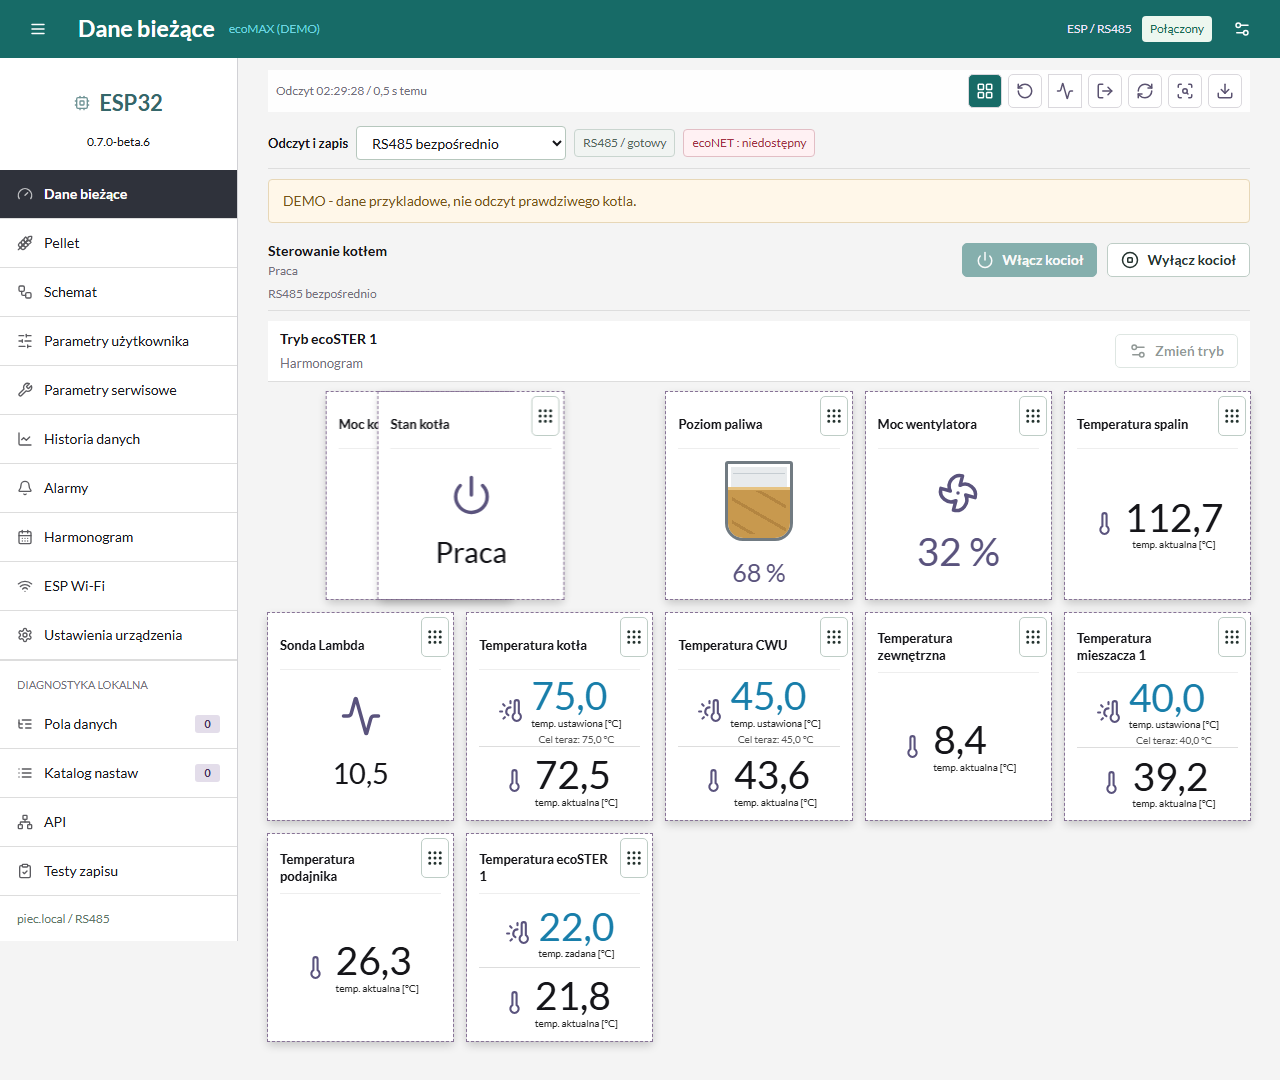
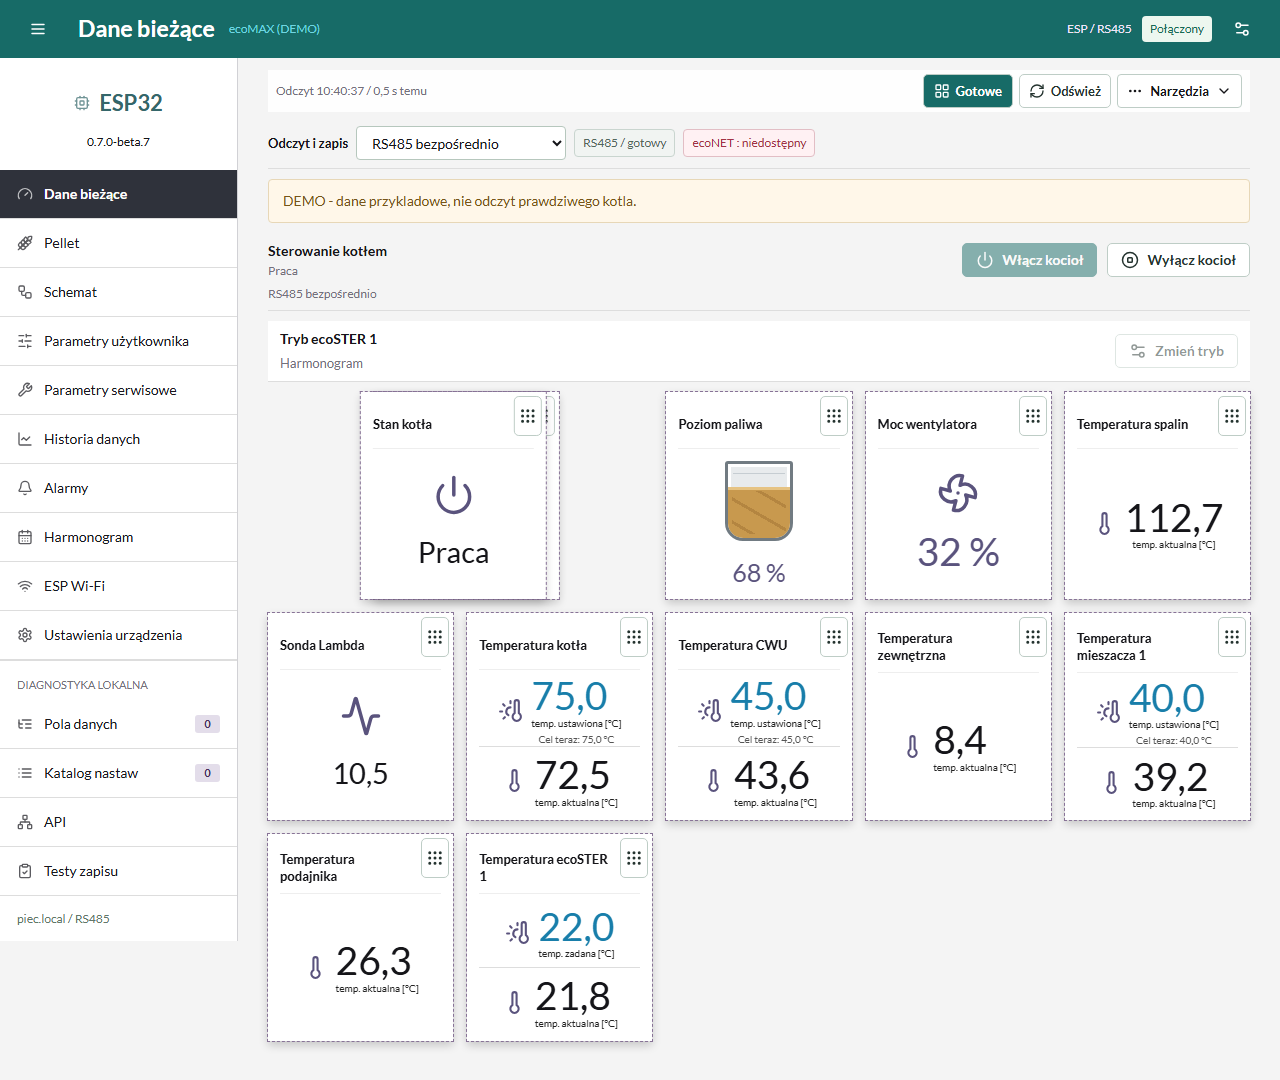
Release 0.7.0-beta.7: labelled tools menu with logout last

diff --git a/src/panel_web/index.html b/src/panel_web/index.html
@@ -1,13 +1,13 @@
 <!doctype html>
-<html lang="pl"><head><meta charset="utf-8"><meta name="viewport" content="width=device-width,initial-scale=1"><title>ecoMAX Wi-Fi | Panel ESP</title><link rel="stylesheet" href="/style.css"><link rel="stylesheet" href="/mirror.css"><link rel="stylesheet" href="/week.css"><link rel="stylesheet" href="/pellet.css"><link rel="stylesheet" href="/history.css"><link rel="stylesheet" href="/network.css"><link rel="stylesheet" href="/updates.css"><script src="/updates.js" defer></script><script src="/network.js" defer></script><script src="/lucide.js" defer></script><script src="/settings.js" defer></script><script src="/pellet.js" defer></script><script src="/history.js" defer></script><script src="/sortable.min.js" defer></script><script src="/tile_layout.js" defer></script><script src="/mirror.js" defer></script><script src="/app.js" defer></script></head>
+<html lang="pl"><head><meta charset="utf-8"><meta name="viewport" content="width=device-width,initial-scale=1"><title>ecoMAX Wi-Fi | Panel ESP</title><link rel="stylesheet" href="/style.css"><link rel="stylesheet" href="/mirror.css"><link rel="stylesheet" href="/week.css"><link rel="stylesheet" href="/pellet.css"><link rel="stylesheet" href="/history.css"><link rel="stylesheet" href="/network.css"><link rel="stylesheet" href="/updates.css"><script src="/updates.js" defer></script><script src="/network.js" defer></script><script src="/lucide.js" defer></script><script src="/settings.js" defer></script><script src="/pellet.js" defer></script><script src="/history.js" defer></script><script src="/sortable.min.js" defer></script><script src="/tile_layout.js" defer></script><script src="/toolbar.js" defer></script><script src="/mirror.js" defer></script><script src="/app.js" defer></script></head>
 <body>
 <link rel="stylesheet" href="/transport.css"><link rel="stylesheet" href="/compact.css">
 <header><button id="nav-toggle" class="icon" title="Menu" aria-label="Menu" aria-expanded="true" aria-controls="main-nav"><i data-lucide="menu"></i></button><div class="brand"><h1 id="screen-name">Dane bie&#380;&#261;ce</h1><span id="model">Sterownik</span></div><div class="connection"><span id="local-mark" class="local-mark">ESP / RS485</span><span id="connection" class="status neutral">Niepo&#322;&#261;czony</span><button id="connect-open" class="icon" title="Po&#322;&#261;czenie" aria-label="Po&#322;&#261;czenie"><i data-lucide="settings-2"></i></button></div></header>
-<div class="layout"><nav id="main-nav" aria-label="Widoki"><div class="nav-brand"><div id="nav-econet" class="esp-brand" aria-label="ecoNET"><i data-lucide="router"></i><strong>ecoNET</strong></div><div id="nav-esp" class="esp-brand" hidden aria-label="ESP32"><i data-lucide="cpu"></i><strong>ESP32</strong></div><span id="version">0.7.0-beta.6</span></div>
+<div class="layout"><nav id="main-nav" aria-label="Widoki"><div class="nav-brand"><div id="nav-econet" class="esp-brand" aria-label="ecoNET"><i data-lucide="router"></i><strong>ecoNET</strong></div><div id="nav-esp" class="esp-brand" hidden aria-label="ESP32"><i data-lucide="cpu"></i><strong>ESP32</strong></div><span id="version">0.7.0-beta.7</span></div>
 <button class="active" data-view="live"><i data-lucide="gauge"></i><span>Dane bie&#380;&#261;ce</span></button><button data-view="pellet"><i data-lucide="wheat"></i><span>Pellet</span></button><button data-view="schema"><i data-lucide="workflow"></i><span>Schemat</span></button><button data-view="user"><i data-lucide="sliders-horizontal"></i><span>Parametry u&#380;ytkownika</span></button><button data-view="service"><i data-lucide="wrench"></i><span>Parametry serwisowe</span></button><button data-view="history"><i data-lucide="chart-line"></i><span>Historia danych</span></button><button data-view="alarms"><i data-lucide="bell"></i><span>Alarmy</span></button><button data-view="schedule"><i data-lucide="calendar-days"></i><span>Harmonogram</span></button><button data-view="espwifi"><i data-lucide="wifi"></i><span>ESP Wi-Fi</span></button><button data-view="settings"><i data-lucide="settings"></i><span>Ustawienia urz&#261;dzenia</span></button><div class="nav-tools">Diagnostyka lokalna</div><button data-view="data"><i data-lucide="list-tree"></i><span>Pola danych</span><b id="count-fields">0</b></button><button data-view="menu"><i data-lucide="list"></i><span>Katalog nastaw</span><b id="count-menu">0</b></button><button data-view="api"><i data-lucide="network"></i><span>API</span></button><button data-view="tests"><i data-lucide="clipboard-check"></i><span>Testy zapisu</span></button><div class="rail-foot"><div id="address">piec.local</div></div></nav>
 <main>
 
-<div class="page-toolbar"><div><h2 id="view-title">Bie&#380;&#261;ce odczyty</h2><div id="read-time" class="muted">Brak odczytu</div></div><div class="actions"><div class="tile-layout-actions"><span id="tile-layout-status" class="tile-layout-status visually-hidden" role="status"></span><button id="tile-layout-edit" type="button" class="icon" title="Edytuj uk&#322;ad" aria-label="Edytuj uk&#322;ad" aria-pressed="false"><i data-lucide="layout-grid"></i></button><button id="tile-layout-reset" type="button" class="icon" title="Przywr&#243;&#263; domy&#347;lny uk&#322;ad" aria-label="Przywr&#243;&#263; domy&#347;lny uk&#322;ad" hidden><i data-lucide="rotate-ccw"></i></button></div><a href="/diagnostics" class="icon" title="Diagnostyka ESP i OTA" aria-label="Diagnostyka ESP i OTA"><i data-lucide="activity"></i></a><button id="esp-logout" class="icon" title="Wyloguj" aria-label="Wyloguj"><i data-lucide="log-out"></i></button><button class="icon" id="refresh" title="Od&#347;wie&#380; odczyty" aria-label="Od&#347;wie&#380; odczyty"><i data-lucide="refresh-cw"></i></button><button class="icon" id="scan" title="Sprawd&#378; API i katalog" aria-label="Sprawd&#378; API i katalog"><i data-lucide="scan-search"></i></button><button class="icon" id="export" title="Eksport raportu JSON" aria-label="Eksport raportu JSON"><i data-lucide="download"></i></button></div></div>
+<div class="page-toolbar"><div><h2 id="view-title">Bie&#380;&#261;ce odczyty</h2><div id="read-time" class="muted">Brak odczytu</div></div><div class="actions"><div class="tile-layout-actions"><span id="tile-layout-status" class="tile-layout-status visually-hidden" role="status"></span><button id="tile-layout-edit" type="button" class="toolbar-command" title="Edytuj uk&#322;ad kafelk&#243;w" aria-label="Edytuj uk&#322;ad kafelk&#243;w" aria-pressed="false"><i data-lucide="layout-grid"></i><span id="tile-layout-edit-label">Kafelki</span></button></div><button type="button" class="toolbar-command" id="refresh" title="Od&#347;wie&#380; odczyty" aria-label="Od&#347;wie&#380; odczyty"><i data-lucide="refresh-cw"></i><span>Od&#347;wie&#380;</span></button><details id="panel-tools" class="panel-tools"><summary><i data-lucide="ellipsis"></i><span>Narz&#281;dzia</span><i data-lucide="chevron-down"></i></summary><div class="tools-list" role="group" aria-label="Narz&#281;dzia panelu"><button type="button" id="scan"><i data-lucide="scan-search"></i><span>Sprawd&#378; API i katalog</span></button><button type="button" id="export"><i data-lucide="download"></i><span>Pobierz raport JSON</span></button><a href="/diagnostics"><i data-lucide="activity"></i><span>Diagnostyka i aktualizacja ESP</span></a><button id="tile-layout-reset" type="button" data-live-only hidden><i data-lucide="rotate-ccw"></i><span>Przywr&#243;&#263; domy&#347;lny uk&#322;ad</span></button><button type="button" id="esp-logout"><i data-lucide="log-out"></i><span>Wyloguj</span></button></div></details></div></div>
 <div class="transport-toolbar"><label for="transport-select">Odczyt i zapis</label><select id="transport-select"><option value="rs485">RS485 bezpo&#347;rednio</option><option value="econet">ecoNET lokalnie</option><option value="hybrid">RS485 + ecoNET</option></select><span id="transport-state" class="status neutral"></span><span id="econet-health" class="status neutral" role="status">ecoNET: sprawdzanie</span></div>
 <div id="notice" role="status" hidden></div><div id="progress" hidden><span id="progress-label"></span><progress id="progress-value"></progress></div>
 <div id="update-notice" class="update-notice" role="status" hidden><span>Dost&#281;pna wersja <strong id="update-notice-version"></strong></span><button id="update-open" type="button"><i data-lucide="download"></i>Aktualizacja</button></div>

diff --git a/src/panel_web/compact.css b/src/panel_web/compact.css
@@ -1,2 +1,5 @@
 main{padding-top:12px}.page-toolbar,body[data-view=live] .page-toolbar{min-height:40px;margin-bottom:8px;padding:4px 8px;gap:8px;align-items:center;flex-wrap:wrap}.page-toolbar>.actions{gap:6px;flex-wrap:wrap}.page-toolbar .icon{width:34px;min-height:34px}.page-toolbar a.icon{height:34px;display:inline-flex;align-items:center;justify-content:center}.tile-layout-actions{display:flex;align-items:center;gap:6px}.tile-layout-actions[aria-pressed=true],#tile-layout-edit[aria-pressed=true]{background:var(--plum);color:white}body:not([data-view=live]) .tile-layout-actions{display:none}.visually-hidden{position:absolute!important;width:1px;height:1px;padding:0;margin:-1px;overflow:hidden;clip-path:inset(50%);white-space:nowrap;border:0}.transport-toolbar{padding:6px 0 8px;margin-bottom:10px;gap:8px}.transport-toolbar select{min-height:34px;padding-top:5px;padding-bottom:5px}.boiler-controls{padding-bottom:8px;margin-bottom:10px;gap:6px 16px}.boiler-controls .muted{font-size:12px}.boiler-controls button{min-height:34px;padding-top:6px;padding-bottom:6px}.room-mode-controls{padding:8px 12px;margin-bottom:10px}.room-mode-controls button{min-height:34px;padding-top:6px;padding-bottom:6px}.update-notice{margin-bottom:10px;padding:5px 0;gap:8px;font-size:12px}.update-notice button{min-height:32px;padding:4px 9px;font-size:12px}
 @media(max-width:640px){.page-toolbar,body[data-view=live] .page-toolbar{padding:4px;gap:6px}.page-toolbar>.actions,.tile-layout-actions{gap:4px}.page-toolbar .icon{width:30px;min-height:32px}.page-toolbar a.icon{height:32px}.page-toolbar #read-time{font-size:10px}.transport-toolbar{gap:6px}.transport-toolbar label{width:auto;font-size:12px}.boiler-controls{gap:6px 12px}.boiler-controls>.actions{gap:6px}.room-mode-controls{padding:8px}.update-notice{gap:5px}.update-notice button{font-size:11px}}
+.page-toolbar .toolbar-command{min-height:34px;padding:6px 9px;font-size:13px;white-space:nowrap;gap:6px}.toolbar-command svg{width:16px;height:16px}#tile-layout-edit{min-width:90px}.panel-tools{position:relative}.panel-tools>summary{display:flex;align-items:center;gap:7px;list-style:none;min-height:34px;padding:6px 9px;border:1px solid #becdc6;border-radius:4px;color:inherit;background:white;font-size:13px;font-weight:550;white-space:nowrap}.panel-tools>summary::-webkit-details-marker{display:none}.panel-tools>summary svg{width:16px;height:16px}.panel-tools>summary:hover,.panel-tools[open]>summary{background:#edf4ef}.panel-tools>summary:focus-visible{outline:3px solid var(--cyan);outline-offset:2px}.tools-list{position:absolute;right:0;top:calc(100% + 6px);z-index:30;width:282px;max-width:calc(100vw - 24px);padding:6px 0;border:1px solid #cfd8d4;background:#fff;border-radius:4px;box-shadow:0 6px 18px #0002}.tools-list button,.tools-list a{display:flex;align-items:center;justify-content:flex-start;gap:10px;width:100%;min-height:42px;padding:10px 13px;margin:0;border:0;border-radius:0;background:#fff;color:#24332f;font-size:13px;font-weight:500;text-decoration:none;text-align:left;line-height:1.4;white-space:normal}.tools-list :is(button,a):hover{background:#edf4ef}.tools-list :is(button,a):focus-visible{outline:2px solid var(--cyan);outline-offset:-3px}.tools-list svg{width:18px;height:18px;flex:none}.tools-list #esp-logout{color:#a33145;border-top:1px solid #dbe3de;margin-top:4px}body:not([data-view=live]) [data-live-only]{display:none!important}
+@media(max-width:640px){.page-toolbar .toolbar-command,.panel-tools>summary{font-size:12px;padding:6px 8px;min-height:34px;gap:5px}#tile-layout-edit{min-width:84px}.page-toolbar>.actions{margin-left:auto}.tools-list{width:270px}.tools-list button,.tools-list a{min-height:44px}}
+.page-toolbar>.actions{flex-shrink:0;max-width:100%}.panel-tools{margin-left:auto}

diff --git a/docs/GALERIA.html b/docs/GALERIA.html
@@ -6,7 +6,7 @@
 <style>
 *{box-sizing:border-box}body{margin:0;background:#fff;color:#243138;font:16px/1.65 system-ui,"Segoe UI",Arial,sans-serif;letter-spacing:0}header{border-bottom:1px solid #d7e1e3;padding:16px 24px}header nav{max-width:960px;margin:auto;display:flex;flex-wrap:wrap;gap:20px}main{max-width:960px;margin:auto;padding:24px}h1{font-size:30px;line-height:1.25}h2{font-size:23px;line-height:1.35;margin-top:40px;padding-top:18px;border-top:1px solid #dce6e7}p,li{overflow-wrap:anywhere}a{color:#176a85}img{display:block;max-width:100%;height:auto;margin:22px auto;border:1px solid #d8e1e3;border-radius:4px}table{width:100%;border-collapse:collapse;margin:20px 0;font-size:14px}th,td{border:1px solid #ccd9dc;padding:10px;text-align:left;vertical-align:top;overflow-wrap:anywhere}th{background:#eef6f4}pre{white-space:pre-wrap;overflow-wrap:anywhere}em{font-size:14px;color:#546970}strong{font-weight:700}@media(max-width:600px){main{padding:18px}header{padding:16px 18px}h1{font-size:26px}h2{font-size:21px}th,td{padding:7px;font-size:13px}}@media print{header{display:none}main{max-width:none;padding:0}h2{break-after:avoid}img{max-height:18cm;object-fit:contain}tr{break-inside:avoid}a{color:inherit}body{font-size:11pt}}
 </style></head><body><header><nav><a href="https://marexcodemaster.github.io/ecomax-esp32-gateway/">Instalator USB</a><a href="https://github.com/MareXcodemaster/ecomax-esp32-gateway/releases">Pliki do pobrania</a></nav></header><main><h1>Jak Wyglada Panel ecoMAX Wi-Fi</h1>
-<p>Zrzuty rzeczywistego interfejsu wersji <strong>0.7.0-beta.6</strong>, uruchomionego
+<p>Zrzuty rzeczywistego interfejsu wersji <strong>0.7.0-beta.7</strong>, uruchomionego
 lokalnie z <strong>danymi przykladowymi (DEMO)</strong>. Nie jest to potwierdzenie
 obslugi kazdej nastawy w dowolnym kotle.
 Kliknij zdjecie, aby je powiekszyc w GitHubie.</p>
@@ -40,7 +40,11 @@ domyslnej kolejnosci. Kazda przegladarka zapamietuje wlasny uklad.</p>
 <h2>Panel Na Telefonie</h2>
 <p>Ten sam panel na ekranie telefonu; menu boczne jest zwijane.</p>
 <p><img src="images/panel/06-telefon.png" alt="Panel w widoku telefonu, dane przykladowe"></p>
-<h2>Instalacja</h2>
+<h2>Narzedzia Panelu</h2>
+<p>Podpisane przyciski Kafelki i Odswiez oraz menu z nazwami pozostalych funkcji.
+Wyloguj jest ostatnia pozycja, oddzielona od narzedzi.</p>
+<p><img src="images/panel/09-narzedzia.png" alt="Nazwane narzedzia i Wyloguj na koncu listy"></p>
+<h2>Instalacja I Sprzet</h2>
 <p>Oba modele <strong>Waveshare ESP32-S3-RS485-CAN</strong> i <strong>ESP32-S3-RS485-CAN-U</strong>
 (antena zewnetrzna) uzywaja tego samego firmware, 16 MB flash / 8 MB PSRAM.
 Zobacz <a href="START_PL.html">instrukcje ze zdjeciami i schematem</a>,

diff --git a/docs/SZYBKI_START.html b/docs/SZYBKI_START.html
@@ -6,7 +6,7 @@
 <style>
 *{box-sizing:border-box}body{margin:0;background:#fff;color:#243138;font:16px/1.65 system-ui,"Segoe UI",Arial,sans-serif;letter-spacing:0}header{border-bottom:1px solid #d7e1e3;padding:16px 24px}header nav{max-width:960px;margin:auto;display:flex;flex-wrap:wrap;gap:20px}main{max-width:960px;margin:auto;padding:24px}h1{font-size:30px;line-height:1.25}h2{font-size:23px;line-height:1.35;margin-top:40px;padding-top:18px;border-top:1px solid #dce6e7}p,li{overflow-wrap:anywhere}a{color:#176a85}img{display:block;max-width:100%;height:auto;margin:22px auto;border:1px solid #d8e1e3;border-radius:4px}table{width:100%;border-collapse:collapse;margin:20px 0;font-size:14px}th,td{border:1px solid #ccd9dc;padding:10px;text-align:left;vertical-align:top;overflow-wrap:anywhere}th{background:#eef6f4}pre{white-space:pre-wrap;overflow-wrap:anywhere}em{font-size:14px;color:#546970}strong{font-weight:700}@media(max-width:600px){main{padding:18px}header{padding:16px 18px}h1{font-size:26px}h2{font-size:21px}th,td{padding:7px;font-size:13px}}@media print{header{display:none}main{max-width:none;padding:0}h2{break-after:avoid}img{max-height:18cm;object-fit:contain}tr{break-inside:avoid}a{color:inherit}body{font-size:11pt}}
 </style></head><body><header><nav><a href="https://marexcodemaster.github.io/ecomax-esp32-gateway/">Instalator USB</a><a href="https://github.com/MareXcodemaster/ecomax-esp32-gateway/releases">Pliki do pobrania</a></nav></header><main><h1>ecoMAX Wi-Fi: Prosta Instrukcja Instalacji</h1>
-<p><strong>Wersja programu 0.7.0-beta.6. Instrukcja 4, 17.10.2026.</strong>
+<p><strong>Wersja programu 0.7.0-beta.7. Instrukcja 4, 17.10.2026.</strong>
 Nie musisz programowac ani wpisywac komend. Komputer jest potrzebny
 tylko przy pierwszym wgraniu; pozniej korzystasz z telefonu.</p>
 <h2>1. Sprawdz, Czy To Zestaw Dla Ciebie</h2>

diff --git a/src/panel_web/toolbar.js b/src/panel_web/toolbar.js
@@ -1,0 +1,20 @@
+'use strict';
+(function(){
+ function init(){
+  const menu=document.getElementById('panel-tools'),summary=menu.querySelector('summary');
+  const actions=()=>[...menu.querySelectorAll('button,a[href]')].filter(el=>!el.disabled&&!el.hidden&&el.getClientRects().length);
+  document.addEventListener('pointerdown',event=>{if(menu.open&&!menu.contains(event.target))menu.open=false;});
+  menu.addEventListener('focusout',event=>{if(event.relatedTarget&&!menu.contains(event.relatedTarget))menu.open=false;});
+  menu.addEventListener('click',event=>{if(event.target.closest('.tools-list button,.tools-list a'))menu.open=false;});
+  menu.addEventListener('keydown',event=>{
+   if(event.key==='Escape'&&menu.open){event.preventDefault();menu.open=false;summary.focus();return;}
+   if(!['ArrowDown','ArrowUp','Home','End'].includes(event.key))return;
+   event.preventDefault();menu.open=true;
+   const items=actions();if(!items.length)return;
+   const index=items.indexOf(document.activeElement);
+   const next=event.key==='Home'?0:event.key==='End'?items.length-1:index<0?(event.key==='ArrowUp'?items.length-1:0):(index+(event.key==='ArrowUp'?-1:1)+items.length)%items.length;
+   items[next].focus();
+  });
+ }
+ if(document.readyState==='loading')document.addEventListener('DOMContentLoaded',init,{once:true});else init();
+})();

diff --git a/docs/START_PL.html b/docs/START_PL.html
@@ -8,7 +8,7 @@
 </style></head><body><header><nav><a href="https://marexcodemaster.github.io/ecomax-esp32-gateway/">Instalator USB</a><a href="https://github.com/MareXcodemaster/ecomax-esp32-gateway/releases">Pliki do pobrania</a></nav></header><main><h1>ecoMAX Wi-Fi - sterowanie kotłem z telefonu</h1>
 <h2>Instrukcja krok po kroku</h2>
 <p><strong>Pierwszy raz z ESP? Zacznij od <a href="SZYBKI_START.html">prostej instrukcji w 7 krokach</a>.</strong></p>
-<p><strong>Oprogramowanie: 0.7.0-beta.6. Instrukcja: wydanie 6, 17.10.2026.</strong></p>
+<p><strong>Oprogramowanie: 0.7.0-beta.7. Instrukcja: wydanie 7, 17.10.2026.</strong></p>
 <p>Projekt pozwala obsługiwać zgodny regulator kotła z telefonu, tabletu lub
 komputera w domowej sieci. ESP32 odbiera dane i udostępnia własny panel.
 Komputer i kabel USB są potrzebne do pierwszego wgrania. Później panel

diff --git a/src/panel_web/tile_layout.js b/src/panel_web/tile_layout.js
@@ -42,6 +42,8 @@
   const sorter=new Sortable(container,{animation:120,handle:'.tile-grip',disabled:true,delay:180,delayOnTouchOnly:true,touchStartThreshold:4,ghostClass:'tile-ghost',onStart:()=>{dragging=true;},onEnd:()=>{dragging=false;persist();}});
   toggle.onclick=()=>{
    editing=!editing;container.classList.toggle('editing-layout',editing);toggle.setAttribute('aria-pressed',String(editing));reset.hidden=!editing;sorter.option('disabled',!editing);
+   document.getElementById('tile-layout-edit-label').textContent=editing?'Gotowe':'Kafelki';
+   toggle.title=editing?'Zako\u0144cz edycj\u0119 kafelk\u00f3w':'Edytuj uk\u0142ad kafelk\u00f3w';toggle.setAttribute('aria-label',toggle.title);
    for(const handle of container.querySelectorAll('.tile-grip'))handle.hidden=!editing;
    document.getElementById('tile-layout-status').textContent='';
   };

diff --git a/installer/index.html b/installer/index.html
@@ -9,7 +9,7 @@
   <script type="module" src="./main.js"></script>
 </head>
 <body>
-  <header><a class="brand" href="./"><i data-lucide="cpu"></i> ecoMAX Wi-Fi</a><span class="version">0.7.0-beta.6</span></header>
+  <header><a class="brand" href="./"><i data-lucide="cpu"></i> ecoMAX Wi-Fi</a><span class="version">0.7.0-beta.7</span></header>
   <main>
     <h1>Instalacja i Wi-Fi</h1>
     <p>Sterowanie kot&#322;em z telefonu. <a href="./szybki-start.html">Prosta instrukcja: 7 krokow</a> · <a href="./instrukcja.html">Pelna instrukcja ze zdjeciami</a> · <a href="./GALERIA.html">Zobacz panel</a></p>

diff --git a/src/board.hpp b/src/board.hpp
@@ -8,7 +8,7 @@ constexpr gpio_num_t tx = GPIO_NUM_17;
 constexpr gpio_num_t de = GPIO_NUM_21;
 constexpr uart_port_t uart = UART_NUM_1;
 constexpr unsigned baud = 115200;
-constexpr const char *version = "0.7.0-beta.6";
+constexpr const char *version = "0.7.0-beta.7";
 constexpr const char *hostname = "piec";
 constexpr bool github_ota = true;
 inline const char *password() { return device_access::password(); }

diff --git a/docs/GALERIA.md b/docs/GALERIA.md
@@ -1,6 +1,6 @@
 # Jak Wyglada Panel ecoMAX Wi-Fi
 
-Zrzuty rzeczywistego interfejsu wersji **0.7.0-beta.6**, uruchomionego
+Zrzuty rzeczywistego interfejsu wersji **0.7.0-beta.7**, uruchomionego
 lokalnie z **danymi przykladowymi (DEMO)**. Nie jest to potwierdzenie
 obslugi kazdej nastawy w dowolnym kotle.
 Kliknij zdjecie, aby je powiekszyc w GitHubie.
@@ -59,7 +59,14 @@ Ten sam panel na ekranie telefonu; menu boczne jest zwijane.
 
 ![Panel w widoku telefonu, dane przykladowe](images/panel/06-telefon.png)
 
-## Instalacja
+## Narzedzia Panelu
+
+Podpisane przyciski Kafelki i Odswiez oraz menu z nazwami pozostalych funkcji.
+Wyloguj jest ostatnia pozycja, oddzielona od narzedzi.
+
+![Nazwane narzedzia i Wyloguj na koncu listy](images/panel/09-narzedzia.png)
+
+## Instalacja I Sprzet
 
 Oba modele **Waveshare ESP32-S3-RS485-CAN** i **ESP32-S3-RS485-CAN-U**
 (antena zewnetrzna) uzywaja tego samego firmware, 16 MB flash / 8 MB PSRAM.

diff --git a/docs/PANEL.md b/docs/PANEL.md
@@ -2,6 +2,13 @@
 
 ## Codzienna Obsluga
 
+Gorny pasek: **Kafelki** wlacza edycje ukladu (przycisk zmienia sie na
+**Gotowe**), **Odswiez** pobiera aktualne dane. **Narzedzia** rozwija liste:
+sprawdzenie API i katalogu, raport JSON, diagnostyka/OTA i przywrocenie
+ukladu podczas jego edycji. **Wyloguj** jest na koncu listy.
+Menu mozna zamknac kliknieciem poza nim lub Escape; obsluguje tez Tab
+i strzalki klawiatury. Samo otwarcie menu niczego nie wysyla do kotla.
+
 Kolejnosc kafelkow w Danych biezacych mozesz zmienic przyciskiem
 **Edytuj uklad** (symbol siatki). Przeciagnij uchwyt wybranego kafelka
 myszka lub przytrzymaj go palcem. Uchwyt obsluguje tez strzalki klawiatury.

diff --git a/README.md b/README.md
@@ -7,7 +7,7 @@ Bez konta w chmurze do codziennej pracy. Interfejs i instrukcje po polsku.
 **[Prosta instalacja w 7 krokach](docs/SZYBKI_START.md)** ·
 **[Pobierz firmware i instrukcje](https://github.com/MareXcodemaster/ecomax-esp32-gateway/releases)**
 
-**Wersja 0.7.0-beta.6. Projekt niezalezny, nieoficjalny. Nie jest produktem
+**Wersja 0.7.0-beta.7. Projekt niezalezny, nieoficjalny. Nie jest produktem
 PLUM ani Waveshare. Nie jest uniwersalnym firmware dla wszystkich
 kotlow.** Nie omija zabezpieczen ani nie zastepuje regulatora kotla.
 
